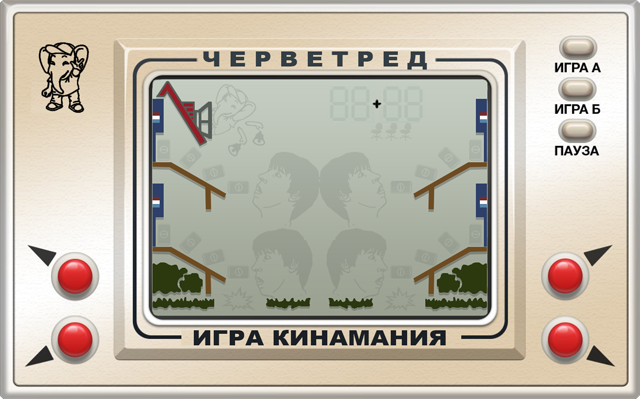
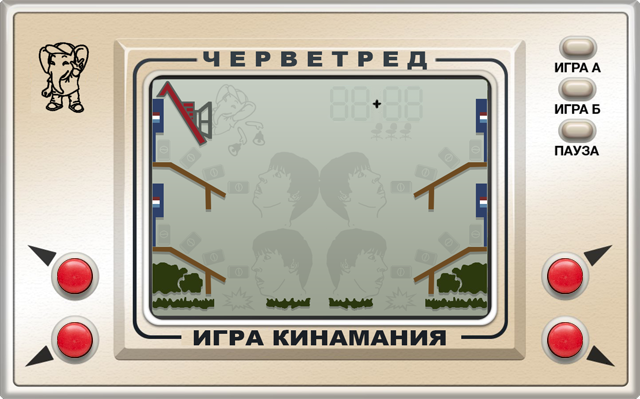
Add current time to pause screen
Update background;

diff --git a/widget.cpp b/widget.cpp
@@ -3,6 +3,7 @@
 #include <QPainter>
 #include <QFileInfo>
 #include <QApplication>
+#include <QTime>
 
 #ifdef _DEBUG
 #include <QDebug>
@@ -698,6 +699,8 @@ void Widget::drawGameFrame()
     case Pause: {
         drawGameText(strPause, painter);
         drawButtons(painter);
+        drawDigitPairs(QTime::currentTime().toString("hh").toInt(), 0, painter);
+        drawDigitPairs(QTime::currentTime().toString("mm").toInt(), 1, painter);
         break;
     }
     default:
@@ -796,7 +799,7 @@ void Widget::drawKeyHints(QPainter &painter)
 
         for (int j = 0; j < 7; ++j) {
             coords[j].setX(hintsCoords[j].x() + offset);
-            coords[j].setY(hintsCoords[j].y() + offset);
+            coords[j].setY(hintsCoords[j].y());
         }
 
         for (int k = 0; k < 4; ++k) {
@@ -818,7 +821,7 @@ void Widget::drawKeyHints(QPainter &painter)
 void Widget::drawGameText(const QString &aStr, QPainter &painter)
 {
     QColor colorBlack(0, 0, 0);
-    QColor colorRed(255, 255, 255);
+    QColor colorWhite(255, 255, 255);
 
     int f_offset = 30;
 
@@ -830,7 +833,7 @@ void Widget::drawGameText(const QString &aStr, QPainter &painter)
     for (int i = 0; i < 2; ++i) {
         int offset;
         if (i % 2 == 0) {
-            painter.setPen(colorRed);
+            painter.setPen(colorWhite);
             offset = 0;
         } else {
             painter.setPen(colorBlack);
